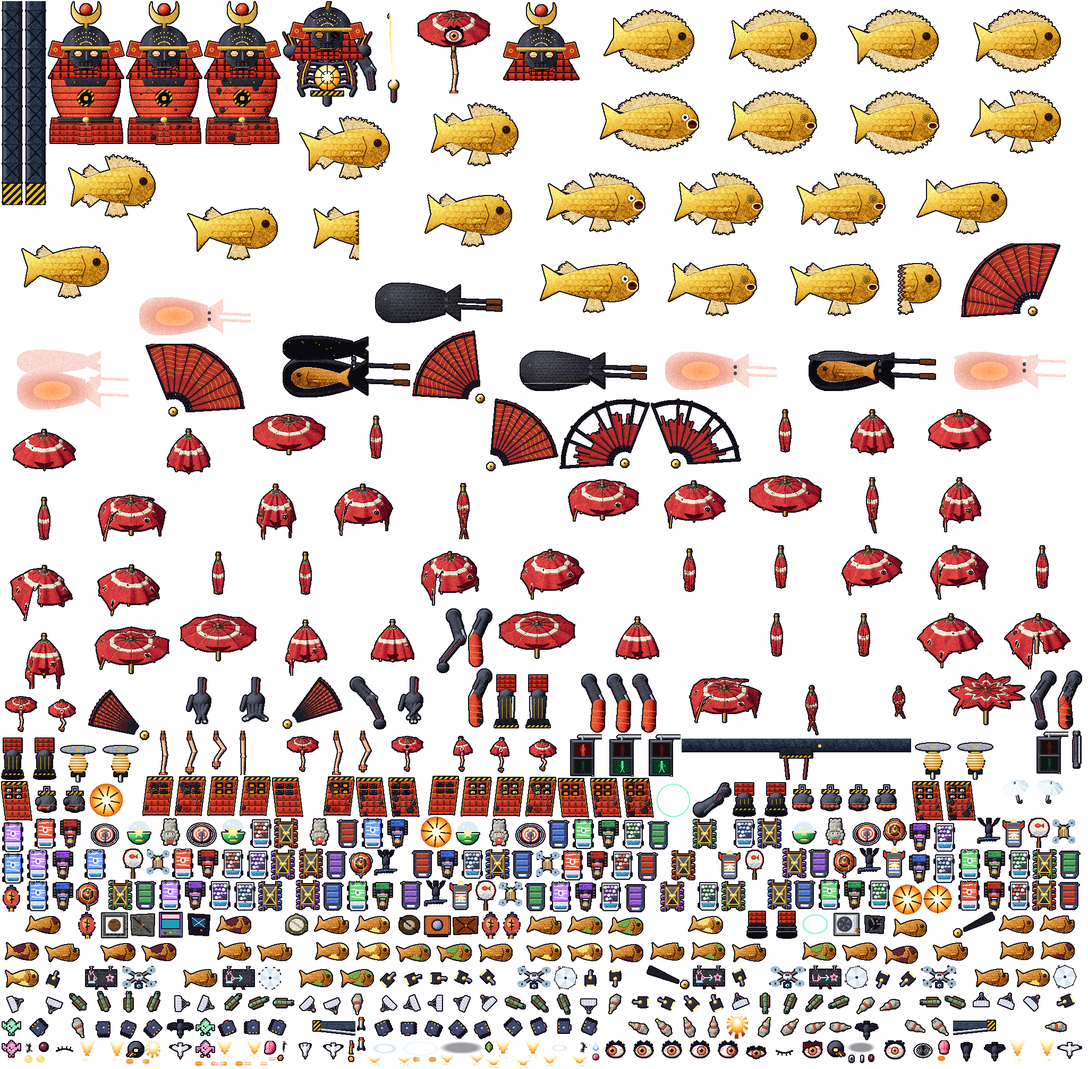
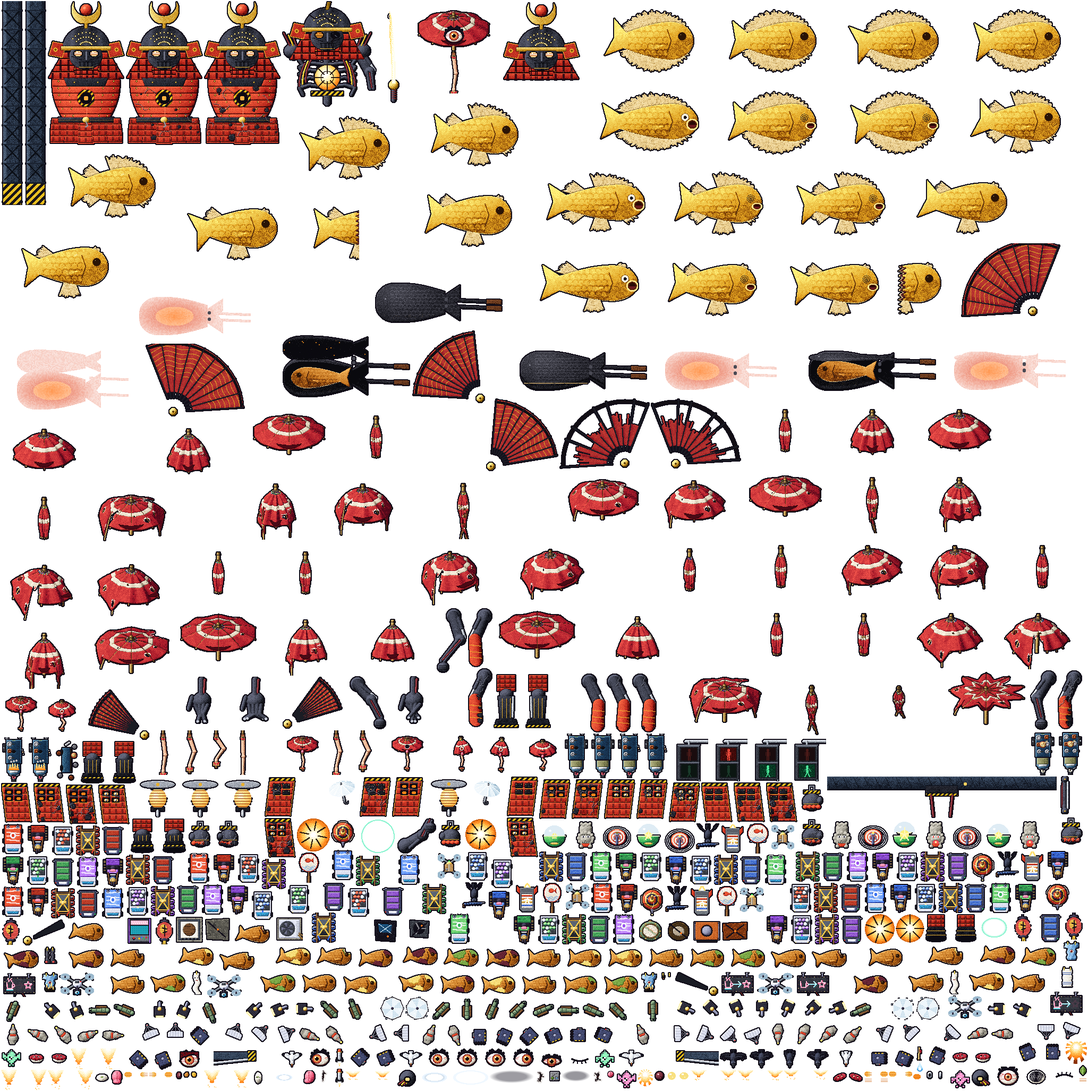
Stronger waves, steps 2-5 for Tokyo: into the game, the washing on its lines, the nigiri and the three-wheeler of Kappabashi (accepted). The designs in Tokyo's atlas, its skin (shared by all of Tokyo's sets of looks). 4 lines of washing over the lanes of the west, their balconies off the streets, th

diff --git a/src/game/enemyArt.js b/src/game/enemyArt.js
@@ -153,8 +153,9 @@ export const CITY_ANIMS = {
   ng_manju: [four('ng_manju'), 4], ng_manju_one: [['ng_manju_one_0', 'ng_manju_one_1'], 6],
   k_iga: [four('k_iga'), 4], k_iga_one: [['k_iga_one_0', 'k_iga_one_1'], 6],
   sp_jaga: [four('sp_jaga'), 4], sp_jaga_one: [['sp_jaga_one_0', 'sp_jaga_one_1'], 6],
+  tk_nigiri: [four('tk_nigiri'), 4], tk_neta: [['tk_neta_0', 'tk_neta_1'], 8], tk_shari: [['tk_shari_0', 'tk_shari_1'], 8],
   hr_kendama: [four('hr_kendama'), 5], hr_ken: [['hr_ken_0', 'hr_ken_1'], 8], hr_tama: [['hr_tama_0', 'hr_tama_1'], 6],
-  ...Object.fromEntries([0, 1, 2, 3].flatMap((st) => [[`o_ferry_${st}`, [[`o_ferry_${st}_0`, `o_ferry_${st}_1`], 4]], [`ky_hoko_${st}`, [[`ky_hoko_${st}_0`, `ky_hoko_${st}_1`], 6]], [`ok_gyu_${st}`, [[`ok_gyu_${st}_0`, `ok_gyu_${st}_1`], 3]], [`ng_kujira_${st}`, [[`ng_kujira_${st}_0`, `ng_kujira_${st}_1`], 5]], [`k_hakucho_${st}`, [[`k_hakucho_${st}_0`, `k_hakucho_${st}_1`], 4]], [`kg_imo_${st}`, [[`kg_imo_${st}_0`, `kg_imo_${st}_1`], 4]], [`os_danjiri_${st}`, [[`os_danjiri_${st}_0`, `os_danjiri_${st}_1`], 5]], [`bp_doro_${st}`, [[`bp_doro_${st}_0`, `bp_doro_${st}_1`], 4]], [`hr_goza_${st}`, [[`hr_goza_${st}_0`, `hr_goza_${st}_1`], 3]]])),
+  ...Object.fromEntries([0, 1, 2, 3].flatMap((st) => [[`o_ferry_${st}`, [[`o_ferry_${st}_0`, `o_ferry_${st}_1`], 4]], [`ky_hoko_${st}`, [[`ky_hoko_${st}_0`, `ky_hoko_${st}_1`], 6]], [`ok_gyu_${st}`, [[`ok_gyu_${st}_0`, `ok_gyu_${st}_1`], 3]], [`ng_kujira_${st}`, [[`ng_kujira_${st}_0`, `ng_kujira_${st}_1`], 5]], [`k_hakucho_${st}`, [[`k_hakucho_${st}_0`, `k_hakucho_${st}_1`], 4]], [`kg_imo_${st}`, [[`kg_imo_${st}_0`, `kg_imo_${st}_1`], 4]], [`os_danjiri_${st}`, [[`os_danjiri_${st}_0`, `os_danjiri_${st}_1`], 5]], [`bp_doro_${st}`, [[`bp_doro_${st}_0`, `bp_doro_${st}_1`], 4]], [`hr_goza_${st}`, [[`hr_goza_${st}_0`, `hr_goza_${st}_1`], 3]], [`tk_sanrin_${st}`, [[`tk_sanrin_${st}_0`, `tk_sanrin_${st}_1`], 6]]])),
   // Fukuoka
   f_tobiume: [four('f_tobiume'), 12], f_goma: [four('f_goma'), 16], f_fugu: [four('f_fugu'), 3],
   f_mentaiko: [four('f_mentaiko'), 5], f_mentaiko_one: [['f_mentaiko_one_0', 'f_mentaiko_one_1'], 6],

diff --git a/src/game/skins.js b/src/game/skins.js
@@ -124,6 +124,11 @@ export const SKINS = {
     taiyaki: { frame: 'ty_kata_shut', kind: 'taiyaki' }, // the second miniboss: TAIYAKI (tokyo-taiyaki.js)
     turret: { base: 't_ac_base', head: 't_ac_', wreck: 't_ac_wreck' },
     bits: { frames: ['t_feather_0', 't_feather_1', 'dot_2'], tints: [0x2a2a34, 0x3a3e4c, 0x5a6070], speed: 60, life: 0.9, drag: 1.9, g: 14 },
+    // the shared three (enemies/chainSplitCart.js), the same in every set: washing on a line across a lane of Nakano
+    // and Shinjuku, nigiri from Tsukiji (the slice and the rice come apart), Kappabashi's old three-wheeler
+    chain: { frame: 'tk_sentaku_0', frames: ['tk_sentaku_0', 'tk_sentaku_1', 'tk_sentaku_2'], eye: 'tk_sentaku_eye_', lit: 'tk_sentaku_lit_', burnt: 'tk_sentaku_burnt', pole: 'tk_balcony', rope: 0xc8ccd4 },
+    split: { frame: 'tk_nigiri_0', anim: 'tk_nigiri', one: 'tk_neta_0', oneAnim: 'tk_neta', other: { one: 'tk_shari_0', oneAnim: 'tk_shari' }, sound: 'squelch' },
+    cart: { anim: 'tk_sanrin_', wreck: 'tk_sanrin_wreck', debris: 0x3a6a8a, light: 0xff9a30 },
     sets: {
       west: {},
       centre: {

diff --git a/docs/plan-silniejsze-fale.md b/docs/plan-silniejsze-fale.md
@@ -181,3 +181,4 @@ Bot nie zestrzeliwuje ich częściej, tylko odlatują z mniejszym zapasem: walki
 | 2026-11-20 | Claude | 1 (Hiroszima) | Projekty grafiki do akceptacji, `tools/art/hiroshima/newfoes.mjs`. Sznur według planu: liny z ostrygami tratw kaki-ikada, rozpięte między pływakami (słup: biały pływak z przywiązanymi bambusami); na każdej kiście ostryg na drucie ze skorupami przegrzebków (kaki-renpo): białe wachlarze muszli, szare chropowate kępy, kapie woda; jedna ostryga rozdziawia się i wygląda z niej oko (te strzelają); jedna płonie jak na ruszcie (kaki-yaki); zostaje goły drut z pustą muszlą. Para: kendama z Hatsukaichi zamiast liści momiji: ken z miseczkami i kolcem, czerwona kula z oczami i dziurką jak usta, kołysze się na sznurku; po trafieniu sznurek pęka, kula i ken nurkują wirując, każde osobno. Wóz według planu: gozabune z Kangen-sai, trzy łodzie pod jednym pokładem, hōren pod złoconym dachem czterospadowym z feniksem, purpurowo-biała kurtyna, czerwony filc, bęben, lampiony na słupkach, chorągwie i sakaki na dziobach, długie wiosła po bokach, oczy namalowane na dziobach; rozpad: gasną i spadają lampiony (oczy czerwone, lampiony na wodzie), odpada wiosło i rwie się kurtyna, płonie dach; wrak zalany, nad wodą tylko złoty dach i chorągiew. Ani w atlasie, ani w grze. | Do decyzji: (1) ostrygi na linach, choć strzelec Hiroszimy też jest ostrygą (tu kiście na muszlach, inny kształt); (2) kendama zamiast momiji, bo popcorn Hiroszimy to duchy liści klonu, a nosiciel to momiji manjū; dwie różne połówki wymagają małej zmiany kodu pary; (3) ta sama łódź gozabune pływa już po mapie jako żywy rekwizyt (pętla x 95–123, u 4280–4500, z dwiema łodziami holowniczymi): polecam usunąć ją z mapy, a wroga postawić w jej miejscu. |
 | 2026-11-20 | Claude | 2-5 (Hiroszima) | Przyjęte według rekomendacji: ostrygi na linach (kiście na muszlach), kendama zamiast momiji, gozabune zamiast łodzi z mapy. Grafika w atlasie `bg/stage7`, skórka. Para może się rozpaść na dwie różne połówki (wspólny kod, `split.other`): kula i ken. Pętla gozabune z dwiema łodziami holowniczymi zdjęta z mapy (tylko ruchome rekwizyty; nieruchoma mapa bez zmian). Uwaga: zatoka mija szybciej (`scroll.fast` 27,5–39 s niesie pas 15,5 s do przodu), więc pas po 39 s to u = 420 + 30·(t + 15,5); większość tratw i dawna pętla łodzi (u 4280–4500) wypadają w walce z krabem. Dlatego: lina z ostrygami w 73,5 s nad zatoką tuż przed tratwami (x 40–100, pływaki z dala od pomostów i latarni), gozabune w 70 s w dół zatoki przy x 124 do pomostów promów w Miyajimaguchi, gdzie staje burtą przy pomoście (u 2900). 12 kendam zamiast 6 par fal popcornu (16,5/18, 57/58,5, 71,5/72, 131/132,5, 165,5/167, 175,5/176 s). Popcorn 67% → 43%. Bot (4 bronie, moc 4), trafienia przed bossem na przelot: normalny 2,0 → 4,5, łatwy 3,8 → 4,3 (Hiroszima była najłatwiejsza; teraz bliżej innych miast); lina, kendamy (z obiema połówkami) i gozabune zestrzelone zawsze, gozabune po 3-7 s. Test: hiroshimaWaves. | |
 | 2026-11-20 | Claude | 1 (Tokio) | Projekty grafiki do akceptacji, `tools/art/tokyo/newfoes.mjs`. Sznur według planu: pranie na linie między balkonami w poprzek uliczki w Nakano (na arkuszu nad nakano_roji_3, u 500), przypięte klamerkami na zmianę: koszulka z czerwonym słońcem, para skarpet z czerwonymi piętami, ręcznik w niebieskie pasy; budzi się długi pas białej bawełny, ittan-momen, otwiera oczy i usta (te strzelają); jedno zajmuje się ogniem od dołu; na linie zostają klamerki ze zwęglonym strzępem; słup: róg balkonu z barierką, wysięgnikiem na linę, doniczką. Para według planu: nigiri z Tsukiji, plaster tuńczyka na ryżu, łypie; po trafieniu ryba zsuwa się z ryżu i każda połowa nurkuje osobno (plaster trzepocze, ryż z kropką wasabi; dwie różne połówki jak kendama w Hiroszimie). Wóz zamiast daihachi-guruma (na takim wózku jeździ już beczka z błotem w Beppu): stara trójkołowa ciężarówka z lat Shōwa (ōto-sanrin) z towarem sklepów Kappabashi (garnki w stosach, stalowe misy, wielka plastikowa miska ramenu z uniesionymi pałeczkami), jedzie sama, jej jedyny okrągły reflektor łypie jak oko hitotsume; rozpad: garnki spadają (oko czerwone), odpada tylne koło (zatacza się), pali się płócienna buda; wrak na boku, garnki rozsypane. Na arkuszu jedzie Kappabashi (x 34) i skręca w Asakusa-dōri (wspólny kod skrętu z Osaki). Ani w atlasie, ani w grze. | Do decyzji: trójkołówka zamiast daihachi (Beppu ma już daihachi). Tokio ma już ciężarówki, vany i rikszę jako nosicieli, ale trójkołówka jest większa i z innej epoki. |
+| 2026-11-20 | Claude | 2-5 (Tokio) | Przyjęte: pranie na linach, nigiri, a zamiast daihachi trójkołowiec z Kappabashi. Grafika w atlasie `bg/stage9`, skórka (wspólna dla wszystkich zestawów wyglądu Tokio). 4 liny z praniem nad uliczkami zachodu, balkony z dala od ulic, torów i stanowisk: Nakano w 1,5 i 6,2 s (x 22–58, w poprzek uliczki x 40), Shinjuku w 34,6 s (x 56–90, nad uliczką x 73) i w 41,4 s (x 76–108, nad pasażem Kabukichō Ichiban-gai), w miejscu 2 fal popcornu na otwarcie i 2 przy Shinjuku. Trójkołowiec w 256,7 s w dół Kappabashi (x 34) i w prawo, w Asakusa-dōri (skręt na u 8084, jak wóz w Osace); pułapkę z 254,9 s przesunięto do 253,6 s, by nie stała na jego drodze. 17 nigiri od Tsukiji przez zatokę po Odaibę (332–383,5 s) w miejscu fal popcornu; połówki: plaster tuńczyka i ryż z wasabi. Popcorn 74% → 63%: do 45% się nie da, bo liny pasują tylko do uliczek zachodu, wóz do jednej ulicy, a para do nabrzeża; reszta najdłuższego etapu zostaje z popcornem. Bot (4 bronie, moc 4; limit lotu podniesiony do 900 s, bo przytrzymania w arenach wydłużają Tokio i przy 420 s bot nie dolatywał do nigiri), trafienia przed bossem na przelot: normalny 10,8 → 14,3, łatwy 7,0 → 8,0. Przy nigiri (330–400 s) to 4 → 12 i 0 → 4 trafień na 4 przeloty; wzrost w środku etapu (50–250 s, bez zmian) to rozrzut bota. Liny, trójkołowiec i wszystkie nigiri (z obiema połówkami) zestrzelone zawsze, trójkołowiec po 3–5 s. Testy: tokyoWaves (nowe przypadki), fukuokaFoes (Tokio ma wszystkie trzy). To ostatnie miasto z listy planu. | Do sprawdzenia w grze: czy 17 nurkujących par przy zatoce nie jest za gęsto (bot dostaje tam wyraźnie więcej). |
